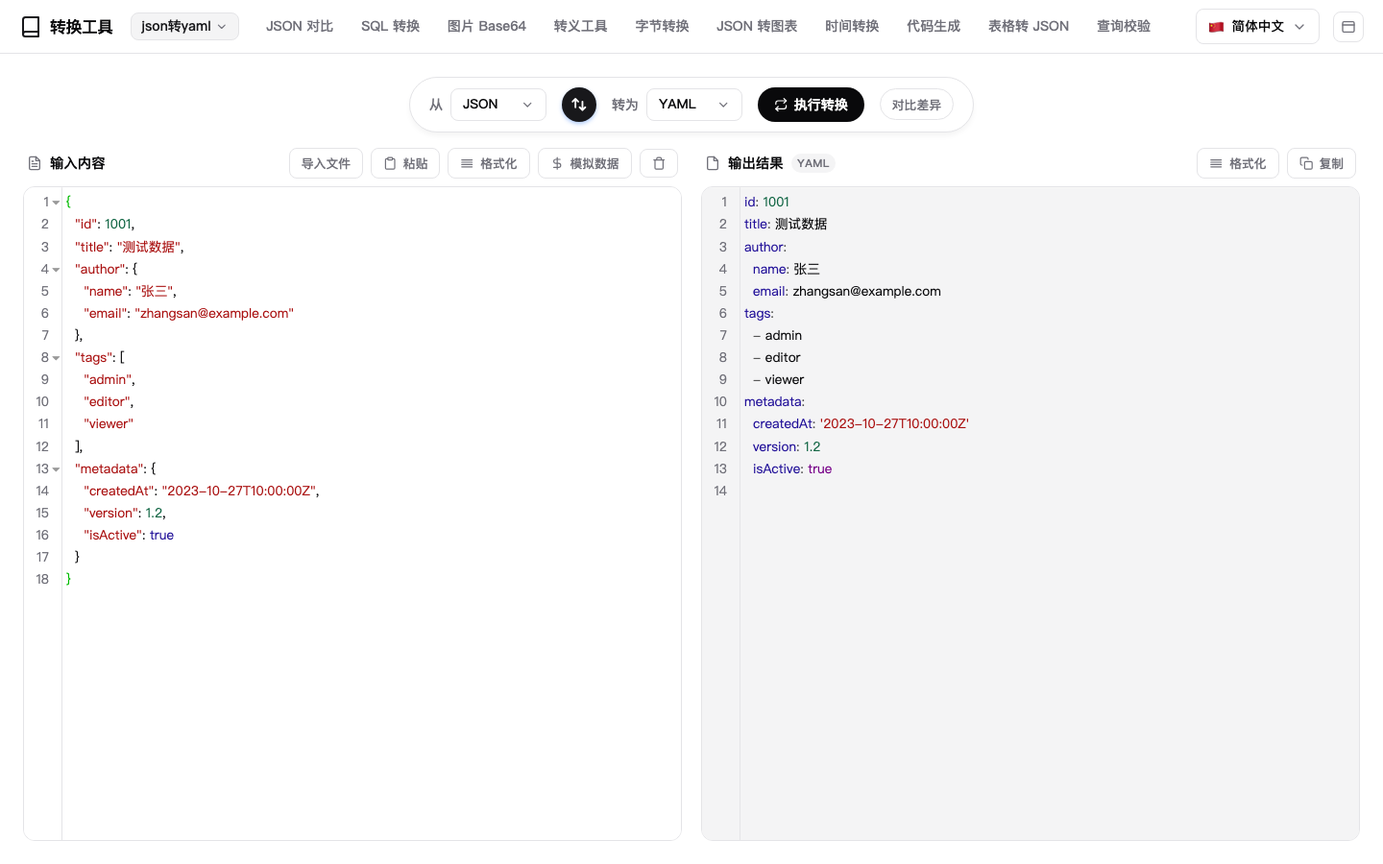
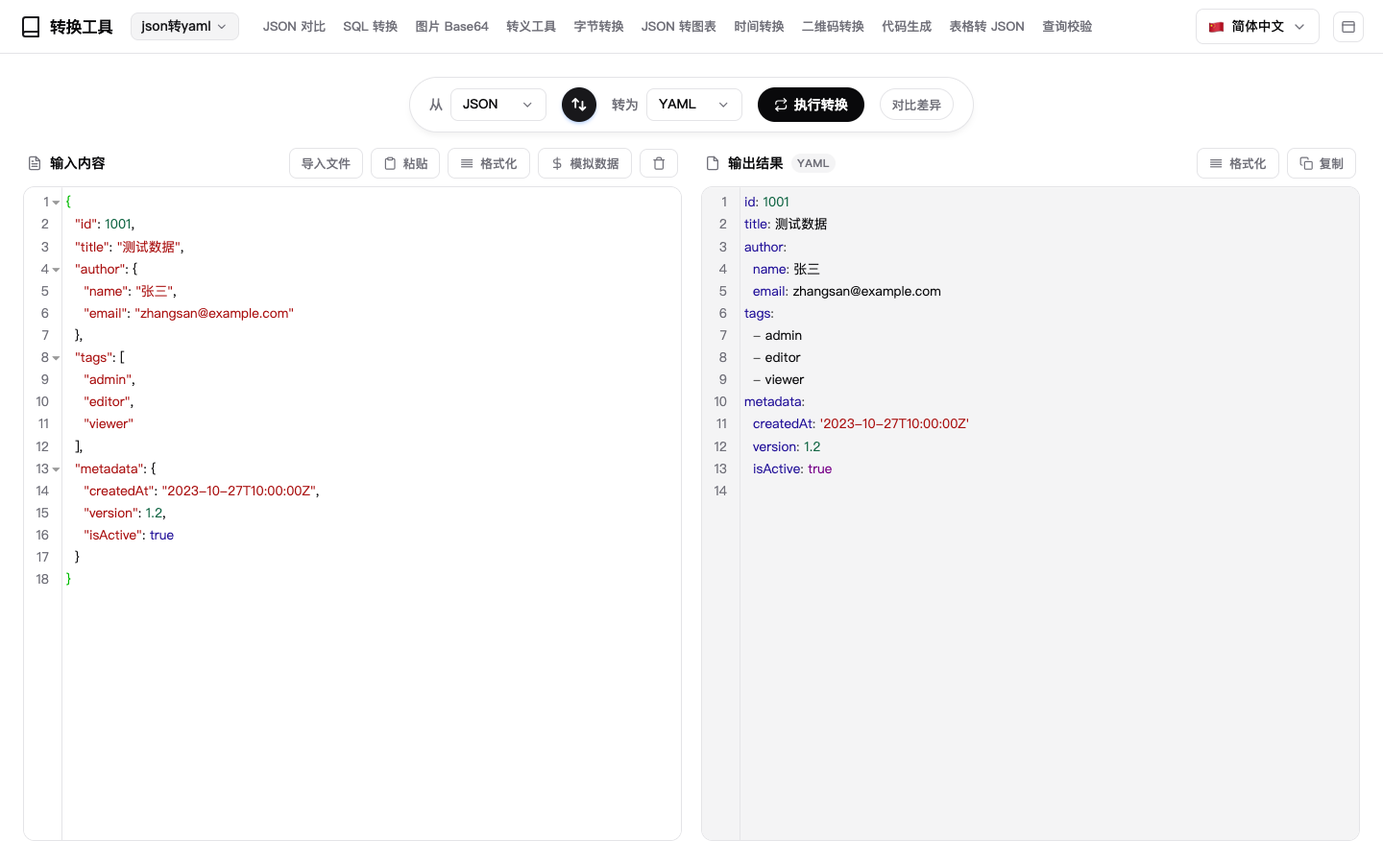
增加二维码转换

Changed region(s): [[0.1875, 0.0, 0.8438, 0.0622]]

diff --git a/ui/index.html b/ui/index.html
@@ -274,10 +274,11 @@
         .nav-links {
             display: flex;
             align-items: center;
-            gap: 0.5rem;
+            /* 11 个导航项要在一行里排开，项之间的缝比原来收了一半 */
+            gap: 0.25rem;
             /* 和「格式转换」下拉之间再留一点，两个胶囊不会黏在一起 */
             margin-left: 0.25rem;
-            font-size: 0.875rem;
+            font-size: 0.8125rem;
             color: var(--text-muted);
             flex: 1;
             min-width: 0;
@@ -289,9 +290,10 @@
             text-decoration: none;
             color: inherit;
             cursor: pointer;
-            /* 比原来的 0.8rem 收一点：给右上角的布局切换按钮腾出位置，
-               1440 宽下 10 个导航项仍然全部留在顶栏上 */
-            padding: 0.4rem 0.65rem;
+            /* 比原来的 0.8rem 收两档：先给右上角的布局切换按钮腾位置，
+               再给第 11 个导航项（二维码转换）腾位置，
+               1440 宽下 11 项全部留在顶栏上，不进「更多」 */
+            padding: 0.4rem 0.45rem;
             border-radius: var(--radius-md, 0.5rem);
             transition: all 0.15s ease;
             font-weight: 500;

diff --git a/README.md b/README.md
@@ -1,6 +1,6 @@
 # 数据转换 (Data Format Converter)
 
-A [DBX](https://dbxio.com) plugin that moves data between formats without leaving the workbench: JSON / YAML / XML / Properties conversion, a field-level diff, a batch-value SQL builder, Excel / CSV → JSON, Image ⇄ Base64, JSON / `CREATE TABLE` straight into model code, JSONPath / jq queries with JSON Schema validation, an escape toolbox, byte conversion (1000 and 1024 scales), timestamps and dates in every notation (local / UTC / ISO 8601 / relative, batched) and JSON straight into an ECharts chart exported as PNG / SVG. Built from the **frontend-only (universal)** template — one cross-platform `.dbxp`, no native backend, no network calls, works offline.
+A [DBX](https://dbxio.com) plugin that moves data between formats without leaving the workbench: JSON / YAML / XML / Properties conversion, a field-level diff, a batch-value SQL builder, Excel / CSV → JSON, Image ⇄ Base64, JSON / `CREATE TABLE` straight into model code, JSONPath / jq queries with JSON Schema validation, an escape toolbox, byte conversion (1000 and 1024 scales), timestamps and dates in every notation (local / UTC / ISO 8601 / relative, batched), JSON straight into an ECharts chart exported as PNG / SVG, and QR codes both ways — batch generation, or decoding pictures back into text. Built from the **frontend-only (universal)** template — one cross-platform `.dbxp`, no native backend, no network calls, works offline.
 
 ![Data Format Converter workbench](docs/screen.png)
 
@@ -21,6 +21,7 @@ A [DBX](https://dbxio.com) plugin that moves data between formats without leavin
 | **Byte converter** | B / KB / MB / GB / TB / PB on both the 1000 and 1024 scales, exact value ⇄ human readable, batch totals, hex dump / byte array / binary string forms, and every value copies on its own without thousands separators |
 | **Time converter** | Timestamps (seconds / milliseconds / microseconds) ⇄ dates, picking from local time, `T`-separated, UTC, ISO 8601 and relative time; one value per line for batches, Now / Today / Yesterday / Week / Month buttons append a line in one click, results fold away, the card for the line your cursor is on gets highlighted, and copying gives you results only |
 | **JSON to Chart** | An ECharts option (or an array of numbers / objects) drawn as a chart; API responses, task lists and several JSONs at once are unwrapped and listed for picking; custom width & height, PNG export at 1x / 2x / 3x and vector SVG, plus a full-screen lightbox; the chart engine ships inside the package, no network |
+| **QR code** | Any text → one code per line, or one code for the whole block with its line breaks kept; size, error correction, margin and colours are all settings, an icon can sit in the middle; cards fold and jump back to the line they came from, copy the image, or export everything as one PNG; drop pictures and they are decoded back into text |
 
 ## Convert
 
@@ -147,9 +148,21 @@ A [DBX](https://dbxio.com) plugin that moves data between formats without leavin
 
 ![JSON to Chart page](docs/screen-chart.png)
 
+## QR code
+
+- **Batch in, batch out** — one line becomes one code: a column of links, ids or any short text turns into a wall of codes in one press, numbered down the side, and an empty line never becomes a blank code. Switch the split to **whole block** and the line breaks stay inside a single code (postal addresses, JSON snippets, multi-line notes), with only the leading and trailing blank lines trimmed.
+- **The code is made of settings** — size (128–1024 px, 256 by default), margin (0–8 modules), error correction (L / M / Q / H) and foreground / background colours, picked from a colour picker or typed as `#rrggbb`. A foreground too close to the background raises a warning up front instead of handing you a code nobody can scan.
+- **A centre icon, with the correction level tuned for it** — pick an image and it is normalised to a 256 px PNG and drawn in the middle over a rounded white pad. The error correction jumps to **H** by itself, because that is the level at which a code with a hole in the middle still decodes; L / M / Q do not. Set it back by hand and the tip line says it may no longer scan.
+- **PNG or SVG** — PNG for sharing, SVG for print: every run of dark modules on a row is merged into one path line, so even 200 codes do not weigh the DOM down. Each card downloads on its own, copies its own text, and **Copy image** puts the picture on the clipboard through `ClipboardItem`; **Export all** tiles every code into a single `qr-codes.png` sized to a near square, instead of opening 200 save dialogs.
+- **Folded, and tied to the line it came from** — a card folds down to its number plus a one-line preview (`+` / `−`), and clicking a card (or its number) puts the cursor back on the line that produced it, so a long list stays navigable in both directions.
+- **Decode pictures back into text** — the second tab takes dropped images, pasted screenshots or a whole batch of files, decodes them one after another (each scaled to a 1600 px long edge and released immediately) and lists the text with a copy button. Single codes and batches both work, and content that had line breaks comes back with them.
+- Both engines (qrcode-generator and jsQR) **ship offline** and travel as inert text that becomes a `blob:` URL when the page opens — the decoder (251 KB) only loads when you actually switch to that tab. Text is encoded as UTF-8, so Chinese content decodes correctly instead of turning into mojibake.
+
+![QR code page](docs/screen-qr.png)
+
 ## Workflow
 
-- **Every page can import a file, and the page never moves** — whichever page you are on, the file is handled by that page. The whole window is a drop target (the veil even states the size limit for this page), and the Import file button in the input pane goes through exactly the same channel. On Convert, `.json` / `.yaml` / `.xml` / `.toml` / `.ini` / `.env` / `.log` / `.md` / `.csv` / `.tsv` set the source format and convert straight away, and unknown extensions (`.dat` / `.out` / `.resp` exports) are read and sniffed just the same; the Compare page has its own Import left / Import right buttons, and a dragged file fills whichever side is still empty; SQL, Escape, Bytes, Time, Chart, Codegen and Query each take their own text and run their own rule right after import. Images and spreadsheets are never read as garbage: dropped on a text page they only tell you to use Image ⇄ Base64 or Sheet → JSON — **the page is never switched for you**.
+- **Every page can import a file, and the page never moves** — whichever page you are on, the file is handled by that page. The whole window is a drop target (the veil even states the size limit for this page), and the Import file button in the input pane goes through exactly the same channel. On Convert, `.json` / `.yaml` / `.xml` / `.toml` / `.ini` / `.env` / `.log` / `.md` / `.csv` / `.tsv` set the source format and convert straight away, and unknown extensions (`.dat` / `.out` / `.resp` exports) are read and sniffed just the same; the Compare page has its own Import left / Import right buttons, and a dragged file fills whichever side is still empty; SQL, Escape, Bytes, Time, Chart, Codegen and Query each take their own text and run their own rule right after import, and QR code takes text for generation and pictures for decoding. Images and spreadsheets are never read as garbage: dropped on a text page they only tell you to use Image ⇄ Base64 or Sheet → JSON — **the page is never switched for you**.
 - **The limits are stated up front** — 16 MB per text file (10 MB for an image, 20 MB for a sheet). Over the limit is refused at the door with the actual size and the cap, before anything is read into memory; content that turns out to be binary (NUL bytes / a wall of replacement characters) is refused too. After an import the tip line keeps `file name · size`, and text over 2 M characters is loaded but not auto-converted (so a drop can never freeze the host) — press Convert when you are ready.
 - **Drop several sheets at once** — up to 10 files are parsed with the current options and merged into **one JSON object keyed by file name** (`{"a.csv": [...], "b.csv": [...]}`), with duplicate names numbered `a (2).csv`. The preview table shows the first file, and Copy / Export work on the merged result (`batch-2.json`).
 - A page's own drop zone and the window-wide entry share one rule: the Image page's zone catches the image first (page-level handlers run before the global one, which steps aside when the event was already handled), and dropping anywhere else still hands the file to the current page — same outcome either way.
@@ -157,9 +170,9 @@ A [DBX](https://dbxio.com) plugin that moves data between formats without leavin
 
 ## Everywhere
 
-- **Internationalization** — 14 languages: zh-CN, zh-TW, en, ja, ko, es, id, it, pl, pt, ru, th, tr, az. Every page (convert, compare, SQL, sheet, image, code gen, query, escape, bytes, time, chart) is translated into all 14, including the 20 schema-validation messages.
+- **Internationalization** — 14 languages: zh-CN, zh-TW, en, ja, ko, es, id, it, pl, pt, ru, th, tr, az. Every page (convert, compare, SQL, sheet, image, code gen, query, escape, bytes, time, chart, QR code) is translated into all 14, including the 20 schema-validation messages.
 - **Theme adaptability** — follows the DBX host theme and shadcn/ui tokens, including hosts that only send theme metadata (no `data-dbx-theme`) and custom palettes. First paint already matches the host, theme switches cross-fade over 300 ms, and `prefers-reduced-motion` turns the animation off. The one exception is the chart itself on the JSON to Chart page: it is output, not interface, so it stays on the light palette with a white background.
-- **Navigation layout** — the button at the far right of the top bar moves the navigation between top and left, top by default. On the left the ten entries stack into one 13rem column and the content area shifts over; the conversion picker sits at the top of that column too and expands inside it, pushing the entries down instead of covering them. The column fits every entry, so "More" never appears. The choice is remembered — host `dbxPlugin.storage` first, then browser `localStorage`, then `window.name` (the only channel that works inside the `dbx-plugin dev` sandbox) — so reopening keeps the last layout.
+- **Navigation layout** — the button at the far right of the top bar moves the navigation between top and left, top by default. On the left the eleven entries stack into one 13rem column and the content area shifts over; the conversion picker sits at the top of that column too and expands inside it, pushing the entries down instead of covering them. The column fits every entry, so "More" never appears. The choice is remembered — host `dbxPlugin.storage` first, then browser `localStorage`, then `window.name` (the only channel that works inside the `dbx-plugin dev` sandbox) — so reopening keeps the last layout.
 - **Clipboard** — one-click copy through the DBX host API, with a browser fallback.
 - **Offline** — no backend, no CDN, no telemetry; CodeMirror, the YAML library and ECharts (Apache-2.0, `ui/vendor/echarts/` with its LICENSE) all ship inside the package.
 
@@ -178,12 +191,12 @@ git clone <repo-url> && cd dbx-plugin-data-convert
 ## Build & test
 
 ```bash
-./scripts/build.sh test         # all suites (890 cases)
+./scripts/build.sh test         # all suites (888 cases)
 ./scripts/build.sh              # run tests, then package dist/*.dbxp
 ./scripts/run.sh                # shorthand for `build.sh dev`
 
-npm test                        # pure-function suites, no dependencies (890 cases)
-npm install && npm run test:ui  # jsdom smoke test of the UI wiring (236 checks)
+npm test                        # pure-function suites, no dependencies (888 cases)
+npm install && npm run test:ui  # jsdom smoke test of the UI wiring (249 checks)
 ```
 
 On Windows use `scripts\build.cmd` instead (requires Git Bash).
@@ -207,6 +220,7 @@ ui/js/escape.js        8 escape kinds — URL / Base64 / HTML / JSON / Unicode /
 ui/js/bytes.js         byte conversion — units ⇄ bytes, batch totals, hex dump / byte array / binary
 ui/js/chart.js         JSON to chart — shape detection, data → option, size clamping and limits
 ui/js/time.js          time conversion — timestamps / dates / UTC / ISO / relative, batched
+ui/js/qr.js            QR code — matrix generation, SVG / canvas rendering, tiling, decode helpers
 ui/js/flow.js          workflow — drop routing, batch merge, recent list, host selection
 tests/                 regression suite, run with plain node
 scripts/build.sh       package | dev | test

diff --git a/README.zh-CN.md b/README.zh-CN.md
@@ -1,6 +1,6 @@
 # 数据转换 (Data Format Converter)
 
-一个 [DBX](https://dbxio.com) 插件，把数据在工作台里转来转去：JSON / YAML / XML / Properties / TOML / INI / `.env` / CSV / TSV / Query / Headers / Cookie / HTML 共 13 种格式互转、按字段对比、批量值生成 SQL、Excel / CSV 转 JSON、图片 ⇄ Base64、JSON / `CREATE TABLE` 直接生成多语言模型代码，外加 JSONPath / jq 查询、JSON Schema 校验、一组转义工具、字节换算（1000 / 1024 两套进制）、时间戳与日期互转（本地 / UTC / ISO 8601 / 相对时间，批量），以及把 JSON 直接画成 ECharts 图表并导出 PNG / SVG。采用 **纯前端（通用）** 模板构建——单个跨平台 `.dbxp`，没有原生后端、不联网、可离线运行。
+一个 [DBX](https://dbxio.com) 插件，把数据在工作台里转来转去：JSON / YAML / XML / Properties / TOML / INI / `.env` / CSV / TSV / Query / Headers / Cookie / HTML 共 13 种格式互转、按字段对比、批量值生成 SQL、Excel / CSV 转 JSON、图片 ⇄ Base64、JSON / `CREATE TABLE` 直接生成多语言模型代码，外加 JSONPath / jq 查询、JSON Schema 校验、一组转义工具、字节换算（1000 / 1024 两套进制）、时间戳与日期互转（本地 / UTC / ISO 8601 / 相对时间，批量），以及把 JSON 直接画成 ECharts 图表并导出 PNG / SVG，还有二维码的生成与识别（批量生成，或把图片解回文本）。采用 **纯前端（通用）** 模板构建——单个跨平台 `.dbxp`，没有原生后端、不联网、可离线运行。
 
 ![数据转换工作台](docs/screen.png)
 
@@ -19,6 +19,7 @@
 | **字节转换** | B / KB / MB / GB / TB / PB 两套进制（1000 与 1024）互算、精确值 ⇄ 人类可读、批量求和、hex dump / 字节数组 / 二进制串三种字节写法，每个值都能单独复制且不带千分位 |
 | **时间转换** | 时间戳（秒 / 毫秒 / 微秒）与日期互转，本地时间、`T` 分隔、UTC、ISO 8601、相对时间任选，一行一条批量转；当前时间 / 今天 / 昨天 / 本周 / 本月五个按钮一键换行填入，结果可折叠、光标停在哪行就定位到哪条，复制出去只有结果 |
 | **JSON 转图表** | 一段 ECharts option（或数字 / 对象数组）直接画图，接口返回、任务列表、多份 JSON 都能自动剥开并逐个挑选，宽高可自定义，像素比 1x / 2x / 3x 导出 PNG、矢量导出 SVG，全屏灯箱放大看；图表引擎本地随包，不联网 |
+| **二维码转换** | 一段文本 → 一行一个二维码，或整段合成一个并保留换行；尺寸 / 纠错 / 边距 / 配色都是可调的，中心还能放图标；卡片可折叠、点一下跳回它来自的那一行、可单独复制图片、可全部导出成一张 PNG；拖入图片还能反向解出文本 |
 
 ## 格式转换
 
@@ -145,9 +146,21 @@
 
 ![JSON 转图表页](docs/screen-chart.png)
 
+## 二维码转换
+
+- **批量进、批量出**：一行一条，一列链接、单号或任意短文本按一下就是一片码，卡片从上到下编号，空行不会生成空码。把拆分切成**整段一个**，换行就留在同一个码里（通讯地址、JSON 片段、多行备注都行），只去掉首尾空行。
+- **码本身由参数决定**：尺寸（128–1024 px，默认 256）、边距（0–8 个模块）、纠错级别（L / M / Q / H）、前景色与背景色——取色器点一下或直接填 `#rrggbb`。前景和背景太接近会提前提示，而不是丢给你一个谁都扫不出来的码。
+- **中心图标，纠错级别跟着调**：选一张图片，先归一化成 256 px 的 PNG，再垫一层圆角白底画在正中间；纠错会**自动跳到 H**，因为中心被挖掉一块还能解出来的就这一档（L / M / Q 都解不出来）。手动调回去，提示条会写明「可能扫不出来」。
+- **PNG 还是 SVG**：PNG 拿来发，SVG 拿去印——每一行连续的深色模块会并成一条路径线，200 个码也不会把 DOM 压垮。每张卡片单独下载、单独复制文本，**复制图片**走 `ClipboardItem` 直接把图放进剪贴板；**全部导出**把整批拼成一张接近正方形的 `qr-codes.png`，而不是弹 200 次保存框。
+- **可折叠，还认得来路**：卡片能收成「序号 + 一行预览」（`+` / `−`），点卡片或点它的序号，光标就跳回生成它的那一行——长列表两个方向都好找。
+- **图片解回文本**：切到第二个模式，拖进图片、粘贴截图或者一次给一批文件，逐张解码（每张先缩到长边 1600，解完立刻释放），结果列表带复制按钮。单个和批量都认，原本带换行的内容解出来也带换行。
+- 两个引擎（qrcode-generator、jsQR）都**随包离线**，以惰性文本的形式跟着页面走、进页时才包成 `blob:` 地址执行；解码引擎（251 KB）只在你真的切到那个模式时才加载。文本按 UTF-8 编码，中文内容解出来不会变成乱码。
+
+![二维码转换页](docs/screen-qr.png)
+
 ## 工作流
 
-- **每个功能页都能导入文件，页面不跟着跑**：在哪个页面，导进来的文件就归哪个页面处理。整个窗口都是投放区（拖进来时浮一层提示，蒙层里直接写着这一页的体积上限），输入区的「导入文件」按钮走的是同一条通道。在「格式转换」拖 `.json` / `.yaml` / `.xml` / `.toml` / `.ini` / `.env` / `.log` / `.md` / `.csv` / `.tsv` 会按扩展名设好源格式并直接算出结果，扩展名不认识（`.dat` / `.out` / `.resp` 这类导出文件）也照收，读进来按内容嗅探；「JSON 对比」两栏各有自己的「导入左侧 / 导入右侧」，拖进来则先填还空着的那一侧；SQL / 转义 / 字节 / 时间 / 图表 / 代码生成 / 查询校验 各吃各的文本，导入后立刻按本页规则出结果。图片和表格文件不会被硬读成乱码：拖到文本页只提示去「图片 Base64」或「表格转 JSON」，**不会替你换页**。
+- **每个功能页都能导入文件，页面不跟着跑**：在哪个页面，导进来的文件就归哪个页面处理。整个窗口都是投放区（拖进来时浮一层提示，蒙层里直接写着这一页的体积上限），输入区的「导入文件」按钮走的是同一条通道。在「格式转换」拖 `.json` / `.yaml` / `.xml` / `.toml` / `.ini` / `.env` / `.log` / `.md` / `.csv` / `.tsv` 会按扩展名设好源格式并直接算出结果，扩展名不认识（`.dat` / `.out` / `.resp` 这类导出文件）也照收，读进来按内容嗅探；「JSON 对比」两栏各有自己的「导入左侧 / 导入右侧」，拖进来则先填还空着的那一侧；SQL / 转义 / 字节 / 时间 / 图表 / 代码生成 / 查询校验 各吃各的文本，导入后立刻按本页规则出结果；二维码转换生成时吃文本、解码时吃图片。图片和表格文件不会被硬读成乱码：拖到文本页只提示去「图片 Base64」或「表格转 JSON」，**不会替你换页**。
 - **导入的边界写在明处**：文本单文件 16 MB（图片 10 MB、表格 20 MB），超了在入口就拦下，提示里给出实际大小与上限，不会先把文件读进内存；读出来发现是二进制（含 NUL / 大量乱码）也会拒绝并说明。导入完提示条里常驻「文件名 · 体积」，超过 2 M 字符的文本只载入、不自动转换（避免拖入瞬间把宿主卡住），点「执行转换」再算。
 - **一次拖多个表格**：最多 10 个文件，按当前选项解析后合并成**一个以文件名为键的 JSON**（`{"a.csv": [...], "b.csv": [...]}`），重名自动变成 `a (2).csv`。预览区显示第一个文件，复制 / 导出针对合并结果（`batch-2.json`）。
 - 页面内的投放区与全局入口共用一套判定：图片页的拖拽区先接住图片（页面级处理器先跑，全局处理器看到事件已被处理就让开），拖到窗口别处也只会交给当前这一页，结果一致。
@@ -155,9 +168,9 @@
 
 ## 通用
 
-- **国际化**——14 种语言：zh-CN、zh-TW、en、ja、ko、es、id、it、pl、pt、ru、th、tr、az。切换器里列出前三种，其余随宿主 locale 自动匹配；十一个页面（格式转换、对比、SQL、表格、图片、代码生成、查询校验、转义工具、字节转换、时间转换、图表）的文案都已覆盖全部 14 种，连 20 条 Schema 校验错误也有译文，缺一条会退回英文而不是中文。
+- **国际化**——14 种语言：zh-CN、zh-TW、en、ja、ko、es、id、it、pl、pt、ru、th、tr、az。切换器里列出前三种，其余随宿主 locale 自动匹配；十二个页面（格式转换、对比、SQL、表格、图片、代码生成、查询校验、转义工具、字节转换、时间转换、图表、二维码）的文案都已覆盖全部 14 种，连 20 条 Schema 校验错误也有译文，缺一条会退回英文而不是中文。
 - **主题适配**——跟随 DBX 宿主主题与 shadcn/ui 设计令牌，宿主只下发主题信息（不写 `data-dbx-theme`）或自定义调色板同样生效。首屏按宿主主题直接落定、不闪白底，明暗切换有 300 ms 整页过渡，`prefers-reduced-motion` 下自动关掉。唯一的例外是「JSON 转图表」画出来的图：它是产物，固定浅色配色 + 白底，不跟着变暗。
-- **导航布局**——顶栏右上角的按钮让导航在「顶部」和「左侧」之间切换，默认顶部。切到左侧后十个入口竖排成一列（13rem），内容区自动让出同样的宽度；「格式转换」这一组也排在这个列的最上面，下拉在栏内展开、把下面的入口往下推，不会盖住谁。一列放得下全部入口，所以不会出现「更多」。选择会记住：优先宿主 `dbxPlugin.storage`，没有该能力时退回浏览器 `localStorage`、再退回 `window.name`（`dbx-plugin dev` 的沙箱里只有它管用），重开还是上次的样子。
+- **导航布局**——顶栏右上角的按钮让导航在「顶部」和「左侧」之间切换，默认顶部。切到左侧后十一个入口竖排成一列（13rem），内容区自动让出同样的宽度；「格式转换」这一组也排在这个列的最上面，下拉在栏内展开、把下面的入口往下推，不会盖住谁。一列放得下全部入口，所以不会出现「更多」。选择会记住：优先宿主 `dbxPlugin.storage`，没有该能力时退回浏览器 `localStorage`、再退回 `window.name`（`dbx-plugin dev` 的沙箱里只有它管用），重开还是上次的样子。
 - **剪贴板**——通过 DBX Host API 一键复制，没有宿主时走浏览器降级方案。
 - **离线**——无后端、无 CDN、无遥测；CodeMirror、YAML 库与 ECharts（Apache-2.0，`ui/vendor/echarts/` 连同 LICENSE）都打在包里，跑起来一次网络请求都没有。
 
@@ -176,12 +189,12 @@ git clone <repo-url> && cd dbx-plugin-data-convert
 ## 构建与测试
 
 ```bash
-./scripts/build.sh test         # 全部用例（890 条）
+./scripts/build.sh test         # 全部用例（888 条）
 ./scripts/build.sh              # 先跑用例，再打包 dist/*.dbxp
 ./scripts/run.sh                # 等价于 build.sh dev
 
-npm test                        # 纯函数用例，无第三方依赖（890 条）
-npm install && npm run test:ui  # jsdom 页面接线冒烟（236 项）
+npm test                        # 纯函数用例，无第三方依赖（888 条）
+npm install && npm run test:ui  # jsdom 页面接线冒烟（249 项）
 ```
 
 Windows 下使用 `scripts\build.cmd`（需要 Git Bash）。
@@ -205,6 +218,7 @@ ui/js/escape.js        八种转义 —— URL / Base64 / HTML / JSON / Unicode 
 ui/js/bytes.js         字节换算 —— 单位 ⇄ 字节、批量求和、hex dump / 字节数组 / 二进制串
 ui/js/chart.js         JSON 转图表 —— 形状判定、数据转 option、尺寸夹取与上限
 ui/js/time.js          时间转换 —— 时间戳 / 日期 / UTC / ISO / 相对时间，批量解析
+ui/js/qr.js            二维码 —— 矩阵生成、SVG / canvas 渲染、拼图、解码辅助
 ui/js/flow.js          工作流 —— 拖放路由、批量合并、最近使用、宿主选区
 tests/                 回归用例，直接 node 运行
 scripts/build.sh       package | dev | test

diff --git a/CHANGELOG.md b/CHANGELOG.md
@@ -3,16 +3,30 @@
 
 ### ✨ 新增 (Features)
 
+*   **二维码转换页（生成与识别双向，都支持批量）**：导航栏新增「二维码转换」独立页，顶部两个模式页签。生成侧一行一条，一列链接、单号或任意短文本按一下就是一片码，卡片自上而下编号、空行不生成空码；把拆分切成「整段一个」，换行就留在同一个码里（通讯地址、JSON 片段、多行备注都行），只去掉首尾空行。识别侧拖入图片、粘贴截图或一次给一批文件，逐张解出文本并列成可复制的清单，原本带换行的内容解回来也带换行。批量上限 200 张、输入 4000 行、解码 60 张 / 24 MB，越界在入口就说明。
+*   **码的样子全是参数**：尺寸 128–1024 px（默认 256）、边距 0–8 个模块、纠错 L / M / Q / H、前景色与背景色（取色器点选或直接填 `#rrggbb`）、输出 PNG 或 SVG。前景与背景对比度低于 3 会提前提示「可能扫不出来」，而不是丢给你一个谁都扫不出的码。SVG 里每行连续的深色模块并成一条路径线（`M x y h w v1 h-w z`），200 个码也不会把 DOM 压垮。
+*   **中心图标**：选一张图片，先归一化成 256 px 的 PNG，再垫一层圆角白底画在码中央、四周留呼吸位；**上传图标会把纠错自动顶到 H**（见下方修复，低级别下带图标的码扫不出来）。手动调回低级别时，提示条会写明「可能扫不出来」。
+*   **卡片可折叠，还认得来路**：结果卡能收成「序号 + 一行预览 + `−` / `+`」，一屏贴几十张也不至于滚半天；点卡片或点它的序号，输入框光标跳回生成它的那一行（反向同样成立：光标移到第 N 行，第 N 张卡自动滚到可见并高亮）。
+*   **每张单独拿走，也能整批打包**：单卡下载、单卡复制文本、**复制图片**（走 `ClipboardItem` 直接把图放进剪贴板，不支持时退化成存 PNG）；**全部导出**把整批拼成一张接近正方形的 `qr-codes.png`（总像素超 2400 万时按比例缩码本体），而不是连点 200 次保存框。
 *   **导航栏可切到左侧，默认仍在顶部**：顶栏最右侧加了一个布局切换按钮（图标随当前布局变：顶部显示"顶栏"图、左侧显示"侧栏"图）。点一下把 10 个导航项整列挪到左侧，再点回到顶部；切到左侧后顶栏只留品牌、语言切换和这个按钮，导航项竖排占一列（13rem）、内容区自动让出同样的宽度。竖排时一列放得下全部入口，「更多」不再出现。「格式转换」这一组也跟着进左列：触发器排在十个入口前面，下拉在栏内展开。
 
 ### 🐞 修复 (Fixes)
 
+*   **输入中文，二维码扫出来是乱码**：qrcode-generator 默认的字节函数按 latin-1 取字节（`charCodeAt & 0xff`），一个汉字被压成一个字节，写进码里的数据本身就已经错了。`matrixOf()` 里强制切到库自带的 `stringToBytesFuncs['UTF-8']`，`tests/qr.test.js` 加了一条端到端回归（生成 → 光栅化 → jsQR 解回）覆盖中文、中英混排与 emoji。
+*   **上传图标后二维码扫不出来**：图标其实已经画出来了（`<image>` 节点在、位置也对），问题是纠错还停在默认的 M —— 中心被盖掉 22% 时，M 级的数据区已经补不回来。现在上传图标即把纠错顶到 **H**（chip 高亮同步变、toast 明说「图标已应用，纠错已调到 H」），手动调低会提示「可能扫不出来」。同一处还堵了三个静默失败：MIME 为空就 `return`（有些 WebView 给不出 `file.type`，表现就是点了毫无反应）改成按扩展名兜底并明确报错；大小上限 2 MB 且文案只说「读取失败」改成 8 MB 并写清限制；原图直接当 data URI 塞进每张卡片（照片 JPG 两三 MB，200 张就能把 DOM 撑爆）改成先缩到长边 256 px 的 PNG。
+*   **第 11 个导航项把末尾两项顶进「更多」**：1440 宽的窗口里加了「二维码转换」之后，`表格转 JSON` 与 `查询校验` 被折进「更多」菜单。导航项左右内边距再从 `0.65rem` 收到 `0.45rem`、项间距 `0.5rem → 0.25rem`、字号 `0.875rem → 0.8125rem`：实测 1440 下容器 948 px、内容 877 px（余 71 px 缓冲），11 项全部留在顶栏；左侧竖排 11 项不出现滚动条，620 窄屏 `scrollWidth` 仍等于视口宽、不横向溢出。
 *   **左侧模式下「格式转换」下拉浮在左列上方、盖住导航项**：触发器原本还留在顶栏（x≈136），面板从触发器下方展开，正好压住左侧栏的头几项，看着别扭。现在整块（触发器 + 下拉）都进左列——触发器贴左列顶部、宽度跟栏一致，下拉在栏内展开并把下面 10 项往下推，不再遮住任何一项；切回顶部时自动复位。`ResizeObserver` 盯着这块的高度，字体加载、展开收起、切语言都会重算，栏与导航条严丝合缝（1440 下实测触发器块底部与导航条顶部都是 107px）。
 *   **`dbx-plugin dev` 里记不住导航布局**：沙箱里 `localStorage` / `sessionStorage` / `cookie` 全部抛 SecurityError（opaque origin），而 dev 宿主注入的 `dbxPlugin` 只有 `ready` / `context` / `locale` / `theme` / `request` 这些，没有 `storage`，于是偏好只能留在内存里，一刷新就回到顶部。现在多兜一层 `window.name`：它不受同源限制，同一个 frame 反复刷新还在（dev 宿主每个标签页就是一个 `sandbox="allow-scripts"` 的 srcdoc iframe，重载只换内容不换元素），dev 里也能记住；真宿主有 `storage` 时仍以宿主为准。
 *   **切换按钮会挤掉导航项**：1440 宽的窗口里原本 10 个导航项刚好排满，新按钮把末尾两项挤进了「更多」。把导航项左右内边距从 `0.8rem` 收到 `0.65rem`（每边少 2.4px，视觉几乎无差），10 项仍全部留在顶栏，1440 下不再出现「更多」。
 
 ### 🛠 工程化 (Internal)
 
+*   **新增 `ui/js/qr.js`（纯函数，无 DOM）**：`splitItems()`（一行一个：空行跳过、行号保留、CRLF / BOM 归一）、`splitWhole()`（整段一个：换行原样保留、只 trim 首尾空行）、`matrixOf()`（生成矩阵，并把字节函数切成 UTF-8）、`svgMarkup()` / `drawToCanvas()` 两条渲染路径共用同一份矩阵与配色、`tileLayout()`（拼图按接近正方形排，总像素超 2400 万时按比例缩码本体、留出序号标签高度）、`fitDecodeSide()`（解码前把长边压到 1600，省内存也更快收敛）、`contrast()`（WCAG 相对亮度比）。`LIMITS` 收敛批量 200 张 / 输入 4000 行 / 解码 60 张 24 MB / 尺寸 128–1024。
+*   **两个引擎都随包离线、都靠 `blob:` 加载**：以 `<script type="text/plain" src>` 的惰性文本副本跟着页面走（宿主只放行 `script-src 'unsafe-inline' blob:`，外链和 `eval` 都不行），进页时才 `URL.createObjectURL` 包成可执行脚本，用完 `revokeObjectURL`；生成库进页即载，解码库 jsQR 251 KB 只在实际切到「解码」模式时加载；加载失败不缓存 promise，下次进页还能重试。解码走串行泵，每张 `await setTimeout(0)` 让出主线程，读完位图立刻 `release()` 并把 `File` 置空，几十张也不会把沙箱内存顶起来。
+*   **新增 `tests/qr.test.js` 41 条**：导出齐全、UTF-8 字节长度、纠错 / 尺寸 / 颜色容错、对比度、`splitItems`（空行 / 超容量 / CRLF + BOM）、`splitWhole`（换行保留 / CRLF 归一 / 纯空白 / 超容量）、矩阵 21×21 与三个定位图案、同输入同矩阵、超容量报 `too-long`、SVG 的 viewBox / 边距 / 坏颜色兜底、`tileLayout`（2×2、3 列、单张、超像素缩小、标签高度、低于尺寸下限兜底）、`fitDecodeSide`，以及端到端往返（生成 → 光栅化 → jsQR 解回）覆盖 ASCII / 中文 / 中英 + emoji / 四种纠错级别 / 多行内容 / 中心遮挡。纯函数单测 881 → 888。
+*   **冒烟补 12 条二维码链路**：进页只显示本页且只有一个编辑器、默认落在生成模式、一行一个、SVG 里只有一条 path、单条时切换成大卡片、折叠与展开、光标定位高亮、取色器与输入框双向同步、切到解码模式的空态与提示、切回格式转换页复原；导航断言从 10 项改 11 项（直属项数、「更多」菜单集合、`pageOf` 三处一起改）。冒烟 238 → 249。
+*   **`QR_I18N` 62 键 × 14 语**并入 `tests/i18n.test.js` 的全量键集合 / 占位符 / 空值校验，缺一种语言或丢一个占位符会直接失败。
+*   README（中英各一份）新增「二维码转换 / QR code」章节与 `docs/screen-qr.png`；因为这一版动了公共导航（多了第 11 项、内边距又收了一档），原有 11 张截图全部重拍，共 12 张（1440 × 900、1x、亮色、清 `.toast`），逐张确认内容非空、导航完整；测试条数表述同步到实测值（单测 888、冒烟 249）。
 *   **布局偏好跨会话记忆，按宿主能力四级降级**：DBX 工作台是 opaque origin 的沙箱，`localStorage` 会直接抛 SecurityError，所以跨会话记忆优先用宿主的 `window.dbxPlugin.storage`（manifest 新增 `host.storage` 权限，读前先看初始化能力 `capabilities.storage`）；没有该能力时退回浏览器 `localStorage`，再退 `window.name`（沙箱里唯一不受同源限制、且同一 frame 刷新后还在的通道），最后才是只在本次会话内生效。存的是 `navLayout`（`top` / `left`），首次打开没有记录时就是顶部。
 *   **默认顶部、重开恢复上次选择**：启动时先用同步来源（`localStorage` / `window.name`）恢复避免闪一下，再等宿主 `ready` 后用 `storage.get('navLayout')` 校正——沙箱里只有宿主存储能真正跨会话记住。切语言时 `aria-label` / `title` 也跟着刷新（`NAV_I18N` 14 语新增 `navToggleToLeft` / `navToggleToTop`）。
 *   `layoutNav()` 在左侧竖排（且窗口 > 768px）时短路：竖排宽度固定、纵向滚动，横向不会溢出，也就不会把项搬进那个被隐藏的「更多」。窄屏仍走原来的顶部布局与溢出收纳。

diff --git a/.workbuddy/memory/MEMORY.md b/.workbuddy/memory/MEMORY.md
@@ -1,48 +1,44 @@
 # 项目约定（长期）
 
 ## 硬规范
-- 不打 tag、不建分支；提交 / push 由用户确认。**版本号以 `manifest.json` 为准**，`package.json` / CHANGELOG 顶段 / `.dbx-store.json` 对齐它；**升不升版本由用户说**。
-- **不用用户给的真实数据**（接口返回、截图、表名字段）：代码 / 夹具 / 文档 / 截图 / 提交信息一律自造样本。
-- 组件统一 shadcn，原生 `<select>` 换自绘 `.custom-select`（`.disabled` 是空转，断言用 `hasAttribute`）；CSS 变量带 fallback。
+- 不打 tag、不建分支，提交由用户确认。**版本号以 `manifest.json` 为准**，`package.json` / CHANGELOG 顶段 / `.dbx-store.json` 对齐它；升不升版本由用户说。
+- **每次改功能都要同步发布物料**（用户 2026-10-26「每次记得更新」）：CHANGELOG 当前段 → `manifest.json` 描述 → `.dbx-store.json` 的 description（含各语言）/ releaseNotes / tags → README 中英 → 截图；条数用实测值。
+- **不用用户的真实数据**（接口、截图、表名字段），一律自造样本。
+- 组件统一 shadcn，原生 `<select>` 换自绘 `.custom-select`（`.disabled` 空转，断言用 `hasAttribute`）；CSS 变量带 fallback。
 - 编辑器默认 CodeMirror 5，唯一例外是图片 Base64 页（判据：会不会吞 MB 级字符串）。
-- 踩过的坑写进本文件。
 
 ## 国际化
-- 新增文案 14 语齐全（zh-CN / zh-TW / en / ja / ko / es / id / it / pl / pt / ru / th / tr / az）；新页面开独立小表（`QR_I18N` …），别撑大字典。
-- 回退链「当前语言 → en → 主字典 → zh-CN」；占位符 `{n}` 可调序不可丢；语言头正则要兼容无引号键。
-- 改完必跑 `node tests/i18n.test.js`。
+- 新文案 14 语齐全；新页面开独立小表（`QR_I18N` …），别撑大字典。回退「当前语言 → en → 主字典 → zh-CN」；占位符 `{n}` 可调序不可丢；语言头正则兼容无引号键。改完跑 `node tests/i18n.test.js`。
 
 ## 宿主 / 沙箱
-- **没有本地存储**：opaque origin 下 `localStorage` / `cookie` 抛 SecurityError。用 `dbxPlugin.storage`（manifest `host.storage` + `capabilities.storage`），再退 `localStorage`、`window.name`（srcdoc 重载保留，**新建 iframe 就丢**）、内存。
+- **没有本地存储**：opaque origin 下 `localStorage` / `cookie` 抛 SecurityError。用 `dbxPlugin.storage`（manifest `host.storage` + `capabilities.storage`）→ `localStorage` → `window.name`（srcdoc 重载保留，新建 iframe 丢）→ 内存。
 - CSP 只放行 `script-src 'unsafe-inline' blob:`；第三方库以 `<script type="text/plain" src>` 文本副本存放，进页包成 `blob:` 执行，失败不缓存 promise。
-- **宿主用正则扫 HTML 收资源**：注释 / 字符串里假的 `<script src>` 也会被扫，读不到就整页 400（`tests/assets.test.js` 守着）。
+- 宿主用正则扫 HTML 收资源：注释 / 字符串里假的 `<script src>` 也会被扫，读不到整页 400（`tests/assets.test.js` 守着）。
 - 宿主给没 `title` 的按钮补英文提示：写 `data-i18n-title` 或让 `stripHostTooltips()` 摘掉，动态内容标 `data-keep-title`。
-- `dbx-plugin dev` 只有 `ready`/`context`/`locale`/`theme`/`request`/`invoke`/`stream`/`notify`/`sendBinary`：没有 `storage` 也没有 `fileTransfer`（dev 导出不了是预期，别为它改正式逻辑）。
+- `dbx-plugin dev` 没有 `storage` 也没有 `fileTransfer`（dev 导出不了是预期，别为它改正式逻辑）。
 
 ## 架构
-- 功能页 = 独立 `<section id="xxxWorkspace">` + `xxxModeActive` + `enter/exitXxxMode` + `exitOtherModes('xxx')`，并在 `currentPageId()` / `pageImportTargets()` 登记。
-- 纯逻辑抽 `ui/js/xxx.js`（挂 `window.DBXxx`），UI 留 `index.html`；新测试文件同时进 `run_tests()` 与 `package.json` 的 `test`。
-- 保存 / 导出唯一入口 `saveTextFile()` / `saveBinaryFile()`，返回 `host`/`browser`/`cancelled`/`failed` 四态，调用方一律 `saveToast(status, okText)`；中途失败先 `cancel(handleId)`。绝不能不分成败都弹「已导出」。
+- 功能页 = `<section id="xxxWorkspace">` + `xxxModeActive` + `enter/exitXxxMode` + `exitOtherModes('xxx')`，并在 `currentPageId()` / `pageImportTargets()` 登记。纯逻辑抽 `ui/js/xxx.js`（挂 `window.DBXxx`）；新测试进 `run_tests()` 与 `package.json`。
+- 保存 / 导出唯一入口 `saveTextFile()` / `saveBinaryFile()`，返回 `host`/`browser`/`cancelled`/`failed` 四态 + `saveToast()`；中途失败先 `cancel(handleId)`。绝不能不分成败都弹「已导出」。
 - **导入不换页**：`importKindForPage()` 决定这页吃什么，三入口同一通道；>2 M 字符只载入不自动转换。
-- 读编辑器内容用 `el.CodeMirror.getValue()`（`textarea.value` 是空）；换算出来的数值不带千分位。
+- 读编辑器用 `el.CodeMirror.getValue()`（`textarea.value` 是空）；换算出的数值不带千分位。
 
 ## 页级坑
-- **导航**：`#navToggle` 加 `body.nav-left`，「格式转换」`#navConvert` 也进左列且菜单 `position: static`；`syncNavLeftStack()` 按 `navConvert.bottom` 定 `#navLinks.top` + `ResizeObserver`；左侧 >768px 时 `layoutNav()` 短路。**加导航项会挤掉项**（1440 下 11 项要 0.65rem padding），冒烟的导航断言（直属项数 / 「更多」菜单集合 / `pageOf`）三处都要同步。
-- **二维码**：qrcode-generator 默认按 latin-1 取字节（中文必乱码），`matrixOf()` 里切 `stringToBytesFuncs['UTF-8']`；解码库 jsQR 251 KB 只在切「解码」时懒载，串行泵 + 长边压 1600 + 解完释放位图。**中心图标必须把纠错顶到 H**：按 22% 遮挡实测 L / M / Q 都解不回来（`tests/qr.test.js` 钉着），图标先缩到长边 256 的 PNG 再用，否则每张卡片的 SVG 都嵌一份原图。
-- **时间转换**：结果卡要 `flex-shrink: 0`；相对时间不进批量复制；`scrollIntoView` 前判 `typeof === 'function'`（jsdom 没实现）。
+- **导航**：`#navToggle` 加 `body.nav-left`；「格式转换」也进左列，菜单 `position: static`；`syncNavLeftStack()` 按 `navConvert.bottom` 定 `#navLinks.top` + `ResizeObserver`；左侧 >768px 时 `layoutNav()` 短路。**加导航项会挤掉项**：11 项要 `padding: .4rem .45rem` + `gap: .25rem` + `font-size: .8125rem`（1440 容器 948 / 内容 877，余 71px；`0.65rem` 只够 10 项）。冒烟导航断言（直属项数 / 「更多」集合 / `pageOf`）三处同步。
+- **二维码**：qrcode-generator 默认按 latin-1 取字节（中文必乱码），`matrixOf()` 切 `stringToBytesFuncs['UTF-8']`；jsQR 251 KB 只在切「解码」时懒载，串行泵 + 长边压 1600 + 解完释放位图。**中心图标必须把纠错顶到 H**（L / M / Q 解不回，测试钉着）；图标先缩到长边 256 的 PNG，否则每张卡片都嵌一份原图。
+- **时间**：结果卡 `flex-shrink: 0`；相对时间不进批量复制；`scrollIntoView` 前判 `typeof === 'function'`（jsdom 没实现）。
 - **图表**：出图不跟主题；预览 1:1 靠 `flex-start` + `margin:auto`；导出 PNG 显式传 `pixelRatio`；测试 stub 掉 echarts。
 - **表格 / 拖放**：`textLooksBinary()` 拦二进制；批量表格走 `mergeFiles()`。
 
 ## 截图与文档
-- **动公共区域（导航）＝全部截图过时**，必须整套重拍并逐张确认（1440×900、1x、亮色、清 `.toast`）。脚本 `/tmp/imgh/shoot-readme-all.js`，部分页需手工装内容（`shoot-readme-main/-fill/-sql/-time.js`）。判断内容进没进去用 `CodeMirror.getValue()`；按文字找按钮加 `offsetParent !== null`（同名 chip 多处）。
+- **动公共区域（导航）＝全部截图过时**，整套重拍并逐张确认（1440×900、1x、亮色、清 `.toast`）。脚本 `/tmp/imgh/shoot-all.js` 一次 12 张（带名字只拍一张），格式转换 / 对比 / SQL / 时间 / 二维码要手工装内容。两个坑：**灌 CodeMirror 别只写 `textarea.value`**（SQL 页没桥接，用 `el.nextElementSibling.CodeMirror`）；**脚本拼多行用 `String.fromCharCode(10)`**，`'\n'` 会成字面量。按文字找按钮加 `offsetParent !== null`。
 - 只留 README 引用的截图，改完双向校验；README = 简介 + 主图 → 一览表 → 按页分节 → 通用能力，中英一一对应。
 
 ## 工具坑
-- macOS BSD grep 不支持 `\s` / `\|`：多模式用 `grep -E` 或 Grep 工具；`index.html` 一万七千行用 `sed -n`。
+- macOS BSD grep 不支持 `\s` / `\|`：用 `grep -E` 或 Grep 工具；`index.html` 用 `sed -n` 取段。
 - 批量插 i18n 用 node 脚本按锚点插入，插完必跑 i18n 测试。
 - 真 Chrome 验沙箱用 flatten 会话（`Target.setAutoAttach({flatten:true})` + `sessionId`）。
-- jsdom 里外部脚本时机不稳：`window.DBXxx` 取不到就 `|| null` + 常量兜底，测例用 `beforeParse` 注入。
+- jsdom 外部脚本时机不稳：`window.DBXxx` 取不到就 `|| null` + 常量兜底，测例用 `beforeParse` 注入。
 
 ## 待办
-- 接入宿主选中内容（`dbxPlugin.context` + `onContext()` → `flow.pickHostText()`）。
-- 最近使用 / 常用片段：`flow.recentPush()` 已就绪，缺持久化与面板。
+- 接宿主选中内容（`dbxPlugin.context` + `onContext()`）；最近使用缺持久化与面板（`flow.recentPush()` 已就绪）。

diff --git a/.workbuddy/memory/2026-10-26.md b/.workbuddy/memory/2026-10-26.md
@@ -51,3 +51,18 @@
 - 选文件框从 `hidden` 改成 `.qr-hidden-input`（`display:none` 的 file input 在部分 WebView 里 `.click()` 不弹框）。
 - 验证：dev 宿主（OOPIF）里用 1200×1200 JPEG 上传 → 缩略图 256 px、`<image>` 1 个、纠错 chip 自动到 H、toast 正确。
 
+## README 截图套餐重拍（11 → 12 张）
+
+- 根因：加了第 11 个导航项（二维码转换），1440 宽下 `.nav-links a` 的 `0.65rem` padding 不够，`表格转 JSON` 和 `查询校验` 被顶进「更多」——所有截图都带着这个残缺导航，等于全部过时。
+- 修 CSS：`.nav-links` `gap: 0.5rem → 0.25rem`、`font-size: 0.875 → 0.8125rem`；`.nav-links a` `padding: 0.4rem 0.65rem → 0.4rem 0.45rem`。实测 1440 下容器 948 px、内容 877 px（余 71 px 缓冲），11 项全部直排、`#navMore` 不再出现。左侧竖排 11 项 119→475 px、`scrollHeight === clientHeight` 不滚动；620 窄屏 `scrollWidth === 620` 无横向溢出。
+- 重拍脚本 `/tmp/imgh/shoot-all.js`（`node shoot-all.js` 拍 12 张，带名字只拍一张）。坑：① SQL 页 `#sqlInputText` 的 CodeMirror 没有 `linkTextareaToEditor` 桥接，写 `textarea.value` 是空转 → 要从 `el.nextElementSibling.CodeMirror` 拿实例 `setValue()`；② 脚本里 `join('\\n')` 会生成字面反斜杠 n（截图里真的显示 `\n`）→ 改用 `String.fromCharCode(10)`；③ 二维码页要灌 6 条才排满两行、SQL 页要 14 行才不空。
+- 12 张全部 1440×900，逐张 ViewImage 确认：格式转换 / 对比 / SQL / 表格 / 图片 / 代码 / 查询 / 转义 / 字节 / 时间 / 图表 / 二维码都有内容，无空态图。
+- README 两份（`README.md` 英 / `README.zh-CN.md` 中）同步：简介段、功能页一览表、新增「QR code / 二维码转换」章节（6 条 + 图）、工作流与国际化页面清单、导航「十个 → 十一个」、目录结构加 `ui/js/qr.js`、测试数 `890 → 888`（实测）/ 冒烟 `236 → 249`。双向校验 README 引用 ↔ `docs/*.png` 12 项一一对应。
+
+## 发布物料补齐（用户：「changelog」「每次记得更新」「mainfest」）
+
+- `CHANGELOG.md` 的 `## [0.1.8]` 段补二维码：新增 5 条（页面与批量双向 / 参数 / 中心图标 / 折叠定位 / 单卡与整批导出）、修复 3 条（中文乱码 = latin-1 取字节；图标后扫不出来 = 纠错停在 M；第 11 项把末尾两项顶进「更多」）、工程化 6 条（`ui/js/qr.js` 导出清单、两个引擎的 blob 加载与串行解码、`tests/qr.test.js` 41 条、冒烟 12 条 238→249、`QR_I18N` 62 键 × 14 语、12 张截图与 README）。单测 881 → 888。
+- `manifest.json` 的 `description` 末段加「二维码转换」一句。
+- `.dbx-store.json`：顶层 `description`、`localizations` 的 zh-CN / zh-TW / en 三份描述都补二维码（顺手修掉 en 里 `height,,` 的重复逗号）；`releaseNotes` 把二维码提到开头，并把 "ten navigation entries" → "eleven"、"all eleven pages" → "all twelve pages"、旧的「2.4px tighter / all ten fit」改成「entries and gaps tighter / all eleven fit」；`tags` 加 `qrcode`。
+- 用户要求「每次记得更新」→ 已写进用户级 MEMORY.md 新增的「发布物料同步」小节（CHANGELOG → manifest → store 三份描述 + releaseNotes + tags → README 中英 → 截图，条数用实测），项目 MEMORY.md 硬规范也加了对应一行。
+- 改完 `npm test` 888 passed / 0 failed（只动文档与 JSON，未动 UI 逻辑）。
